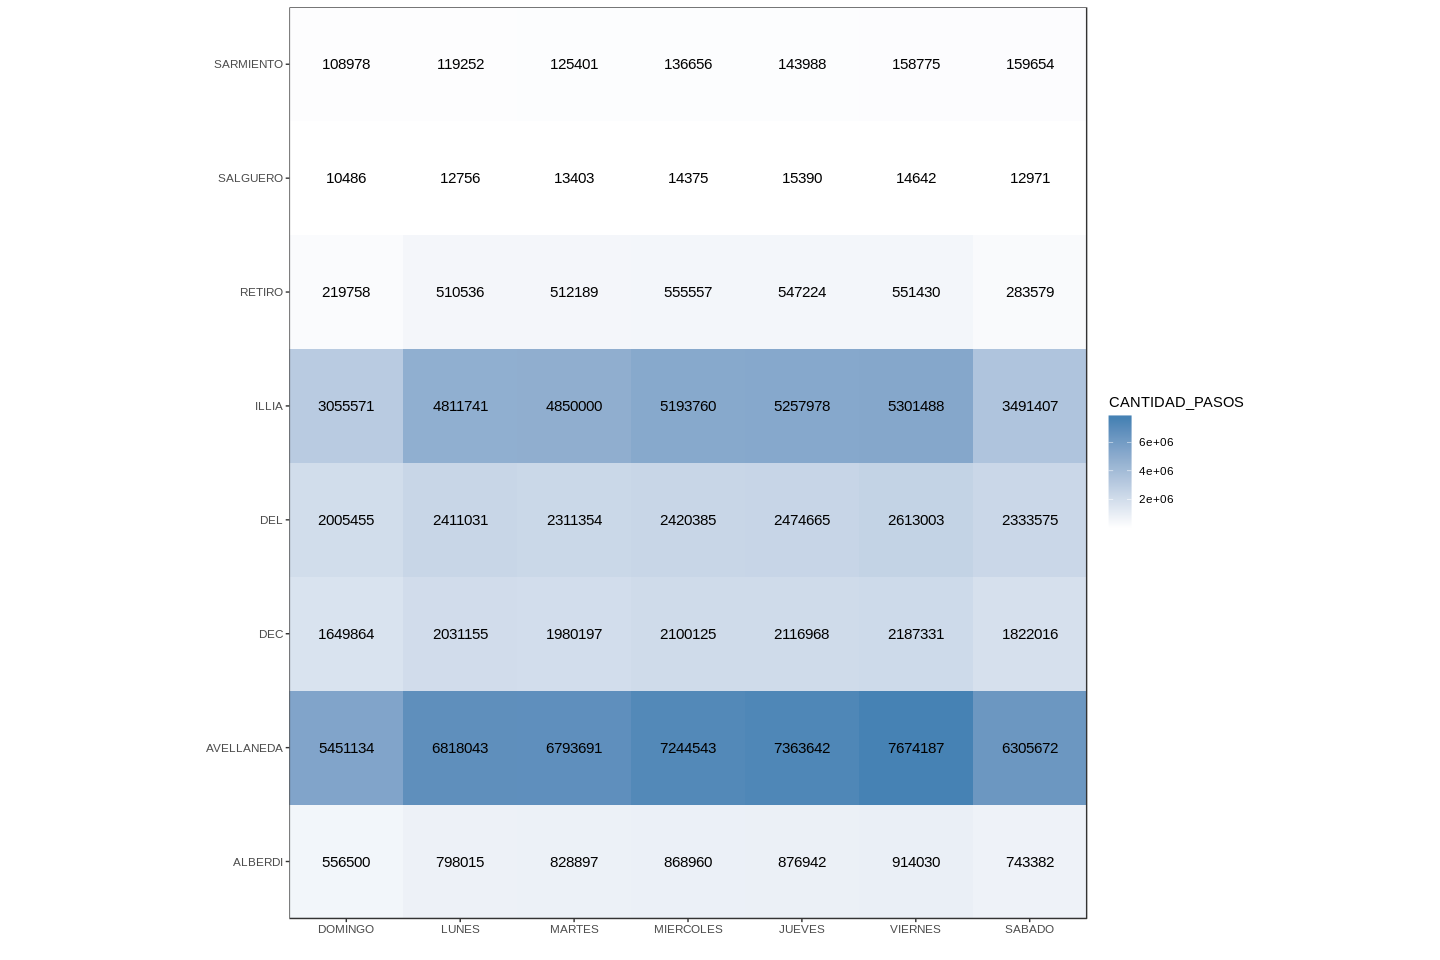
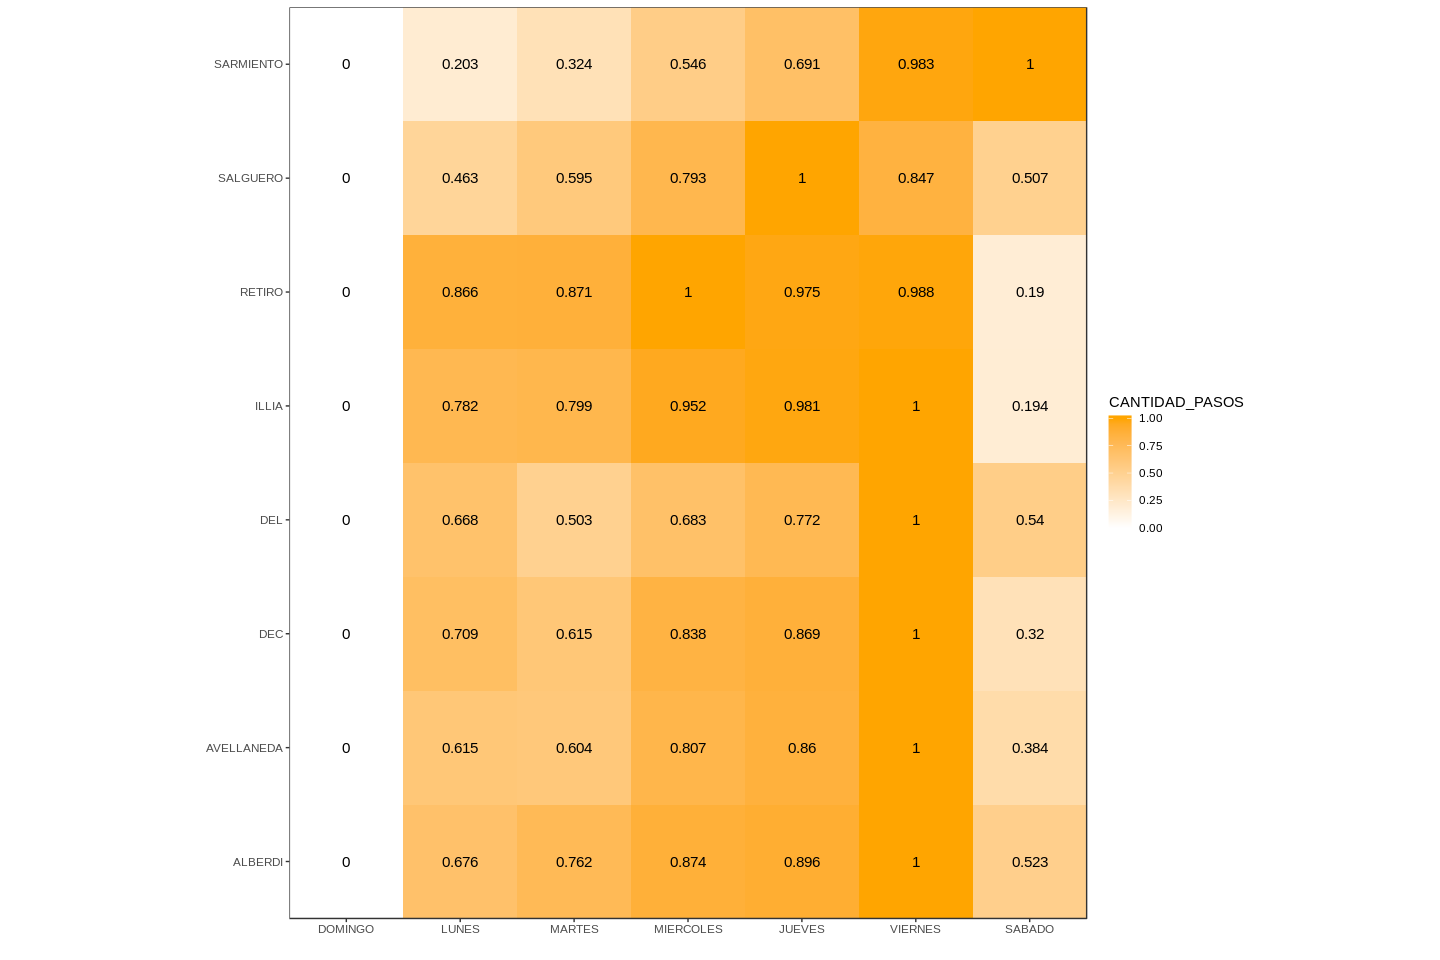
Upgraded heatmaps, and performed hourly breakdown.

diff --git a/README.md b/README.md
@@ -69,13 +69,28 @@ For the graph above it's clear there's an order of magnitud of difference betwee
 ``` r
 library(png)
 library(ggplot2)
-traffic.volume.heatmap <- function(start.year, end.year=start.year) {
+traffic.volume.heatmap <- function(start.year, end.year = start.year, normalize = T) {
+  #' Heatmap showing the volume of cars per toll booth.
+  #' 
+  #' @param start.year First year to take into account when building the heatmap (inclusive).
+  #' @param end.year Last year to take into account when building the heatmap (inclusive).
+  #' @param normalize Normalize values in each cell to [0, 1] range.
+  #' @return A ggplot2 object containing the heatmap.
+  #' @example 
+  #' traffic.volume.heatmap(2008, 2009)
+
   features <- c('ESTACION', 'DIA', 'CANTIDAD_PASOS', 'PERIODO')
   t <- df[features]; rm(features)
   t <- rbind(t %>%
                filter(PERIODO >= start.year & PERIODO <= end.year) %>%
                group_by(ESTACION, DIA) %>%
                summarise(CANTIDAD_PASOS = sum(CANTIDAD_PASOS)))
+  if(normalize) {
+    t <- t %>%
+      group_by(ESTACION) %>%
+      mutate(CANTIDAD_PASOS = round(
+        (CANTIDAD_PASOS - min(CANTIDAD_PASOS)) / (max(CANTIDAD_PASOS) - min(CANTIDAD_PASOS)), 3))
+  }
   t <- t %>% arrange(ESTACION, DIA)
   p <- ggplot(t, aes(x = factor(DIA, level = c('DOMINGO', 'LUNES',  'MARTES', 
                                                'MIERCOLES',  'JUEVES', 'VIERNES', 
@@ -84,7 +99,7 @@ traffic.volume.heatmap <- function(start.year, end.year=start.year) {
                      fill = CANTIDAD_PASOS)) +
     geom_tile() +
     geom_text(aes(label = CANTIDAD_PASOS), size = 4) +
-    scale_fill_gradient(low = 'white', high = 'steelblue') +
+    scale_fill_gradient(low = 'white', high = 'orange') +
     scale_x_discrete(expand = c(0, 0)) + 
     scale_y_discrete(expand = c(0, 0)) +
     labs(x = '', y = '') +
@@ -103,3 +118,47 @@ plot(traffic.volume.heatmap(2015))
 ```
 
 ![](README_files/figure-markdown_github/heatmap2015-1.png)
+
+Each cell in the previous two heatmaps holds the normalized values (to the range \[0, 1\]) of the traffic volume for each toll booth for each day, being DOMINGO (Sunday) the day where the lowest amount of vehicles is registered, and VIERNES (Friday) the one in which there's higher volume of traffic, in most cases.
+
+This traffic flow holds a pattern for each toll booth. Performing an hourly breakdown of traffic for the Alberdi tool booth, shown in the following graph, two traffic peaks can be identified: one around 8am and another one around 6pm. This matches with the times people is commuting to an from work. Another interesting pattern is that traffic keeps relatively still between the time of the two peaks.
+
+``` r
+hourly.breakdown <- function(df, conditions) {
+  #' Heatmap showing the volume of cars per toll booth.
+  #' 
+  #' @param df Dataframe with toll booth name, vehicle type and volume, and time.
+  #' @param conditions Set of filtering conditions to apply.
+  #' @return A ggplot2 object containing the line chart.
+  #' @example 
+  #' hourly.breakdown(df)
+
+  aggregate.by.hour_ <- function(df, amount.of.years) {
+    return(df %>%
+             group_by(TIPO_VEHICULO, HORA) %>%
+             summarise(CANTIDAD_PASOS = sum(CANTIDAD_PASOS)) %>%
+             mutate(CANTIDAD_PASOS = CANTIDAD_PASOS / (amount.of.years * 365.25 / 7))
+           )
+  }
+  
+  t <- aggregate.by.hour_(df[conditions,], length(unique(df$PERIODO)))
+  p <- ggplot(data = t, aes(x = format(strptime(HORA,"%H:%M:%S"),'%H'), 
+                            y = CANTIDAD_PASOS, group = TIPO_VEHICULO)) +
+    labs(x = 'HORA') +
+    geom_line(aes(linetype = TIPO_VEHICULO, color = TIPO_VEHICULO)) +
+    theme_bw() 
+}
+plot(hourly.breakdown(df, (df$ESTACION == 'ALBERDI')))
+```
+
+![](README_files/figure-markdown_github/hourlybreakdownalberdi-1.png)
+
+The previous graph differenciates between the two different kinds of vehicles: motorbikes/cars and trucks. While both kinds show a similar behavior, the volume of motorbikes/cars is greater than the one of trucks. Although this behavior can be seen in other toll booths like Avellaneda or Sarmiento, there are cases like Retiro, where the amount of trucks is almost the same as the one of cars.
+
+``` r
+plot(hourly.breakdown(df, (df$ESTACION == 'RETIRO')))
+```
+
+![](README_files/figure-markdown_github/hourlybreakdownretiro-1.png)
+
+### Predicting tomorrow's traffic volume on each toll booth
